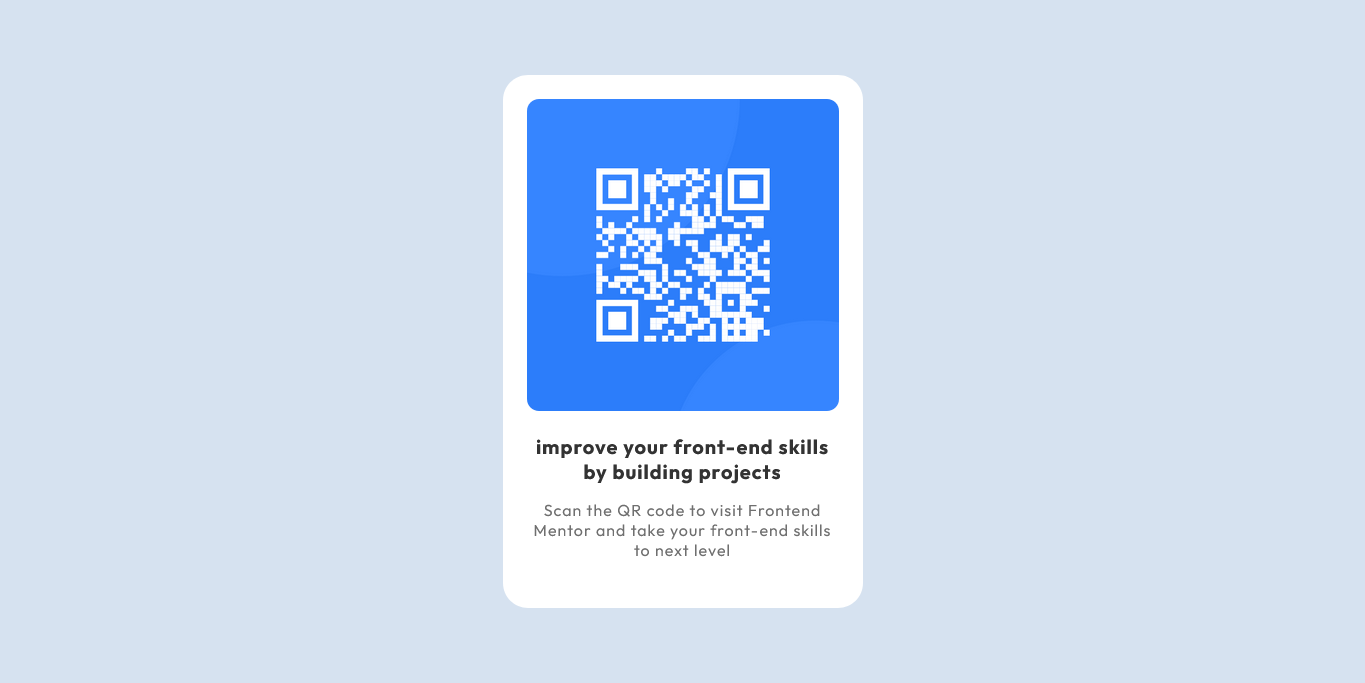
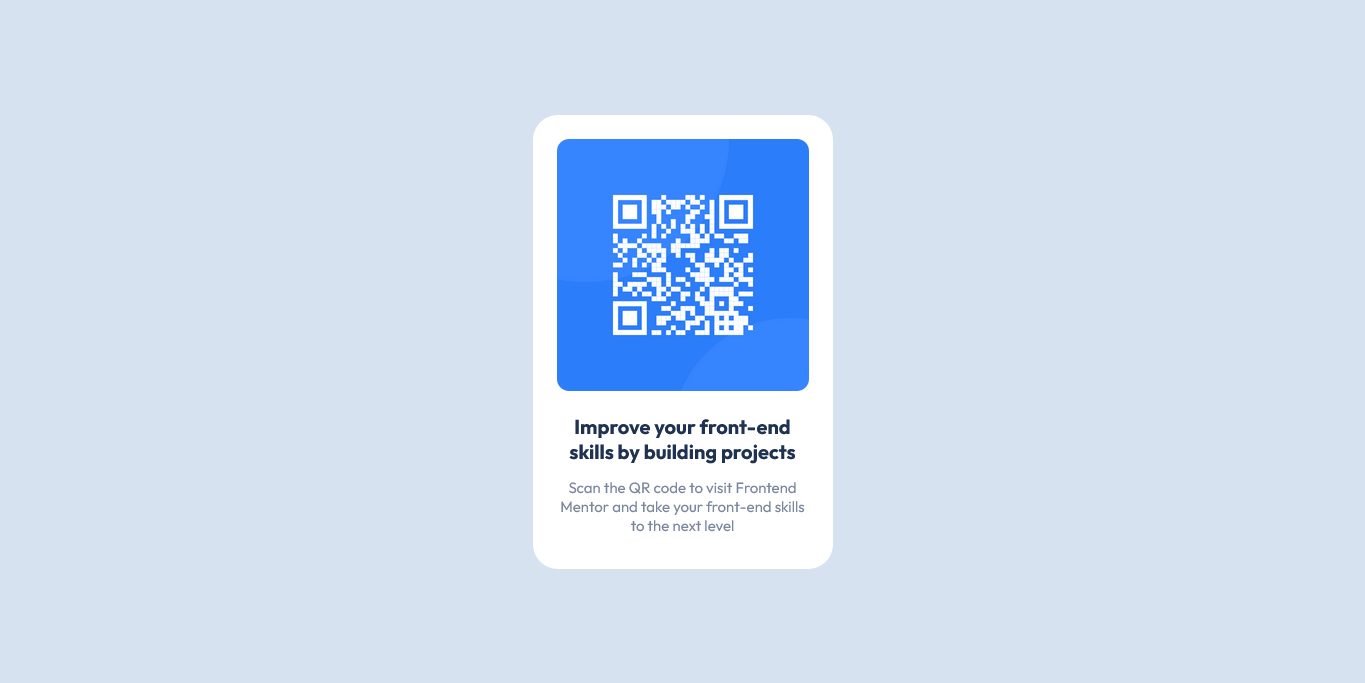
Improved look

Changed region(s): [[0.3692, 0.0922, 0.6462, 0.8917]]

diff --git a/src/components/QrCode.jsx b/src/components/QrCode.jsx
@@ -5,13 +5,13 @@ const QrCode = () => {
     <Wrapper>
       <article className="code-box">
         <div className="img-container">
-          <img src="/images/qr-code.png" />
+          <img src="/images/qr-code.png" alt="qr-code" />
         </div>
         <div className="about">
-          <h2>improve your front-End skills by building projects</h2>
+          <h2>Improve your front-end skills by building projects</h2>
           <p>
             Scan the QR code to visit Frontend Mentor and take your front-end
-            skills to next level
+            skills to the next level
           </p>
         </div>
       </article>
@@ -28,7 +28,7 @@ const Wrapper = styled.div`
   .code-box {
     text-align: center;
     width: 85vw;
-    max-width: 40rem;
+    max-width: 30rem;
     height: auto;
     padding: 2.4rem;
     background: var(--White);
@@ -37,41 +37,30 @@ const Wrapper = styled.div`
     flex-direction: column;
     gap: 2rem;
     .img-container img {
-      /* width: 30rem;
-      height: 30rem; */
       width: 100%;
       border-radius: 1.2rem;
     }
   }
   .about {
     h2 {
-      font-size: 2.2rem;
-      letter-spacing: 0.15rem;
-      margin-bottom: 1.6rem;
+      font-size: 2rem;
+      margin-bottom: 1.4rem;
+      color: var(--Dark-blue);
     }
     p {
-      font-size: 1.8rem;
-      letter-spacing: 0.1rem;
-      font-weight: 400;
-      opacity: 0.7;
+      font-size: 1.5rem;
+      margin-bottom: 1rem;
+      color: var(--Grayish-blue);
     }
   }
-  @media (max-width: 1440px) {
-    .code-box {
-      max-width: 36rem;
-    }
+  @media (max-width: 324px) {
     .about {
       h2 {
-        font-size: 2rem;
-        letter-spacing: 0.1rem;
+        font-size: 1.7rem;
         margin-bottom: 1.6rem;
       }
       p {
-        font-size: 1.6rem;
-        letter-spacing: 0.1rem;
-        font-weight: 400;
-        opacity: 0.7;
-        margin-bottom: 2.4rem;
+        font-size: 1.3rem;
       }
     }
   }
